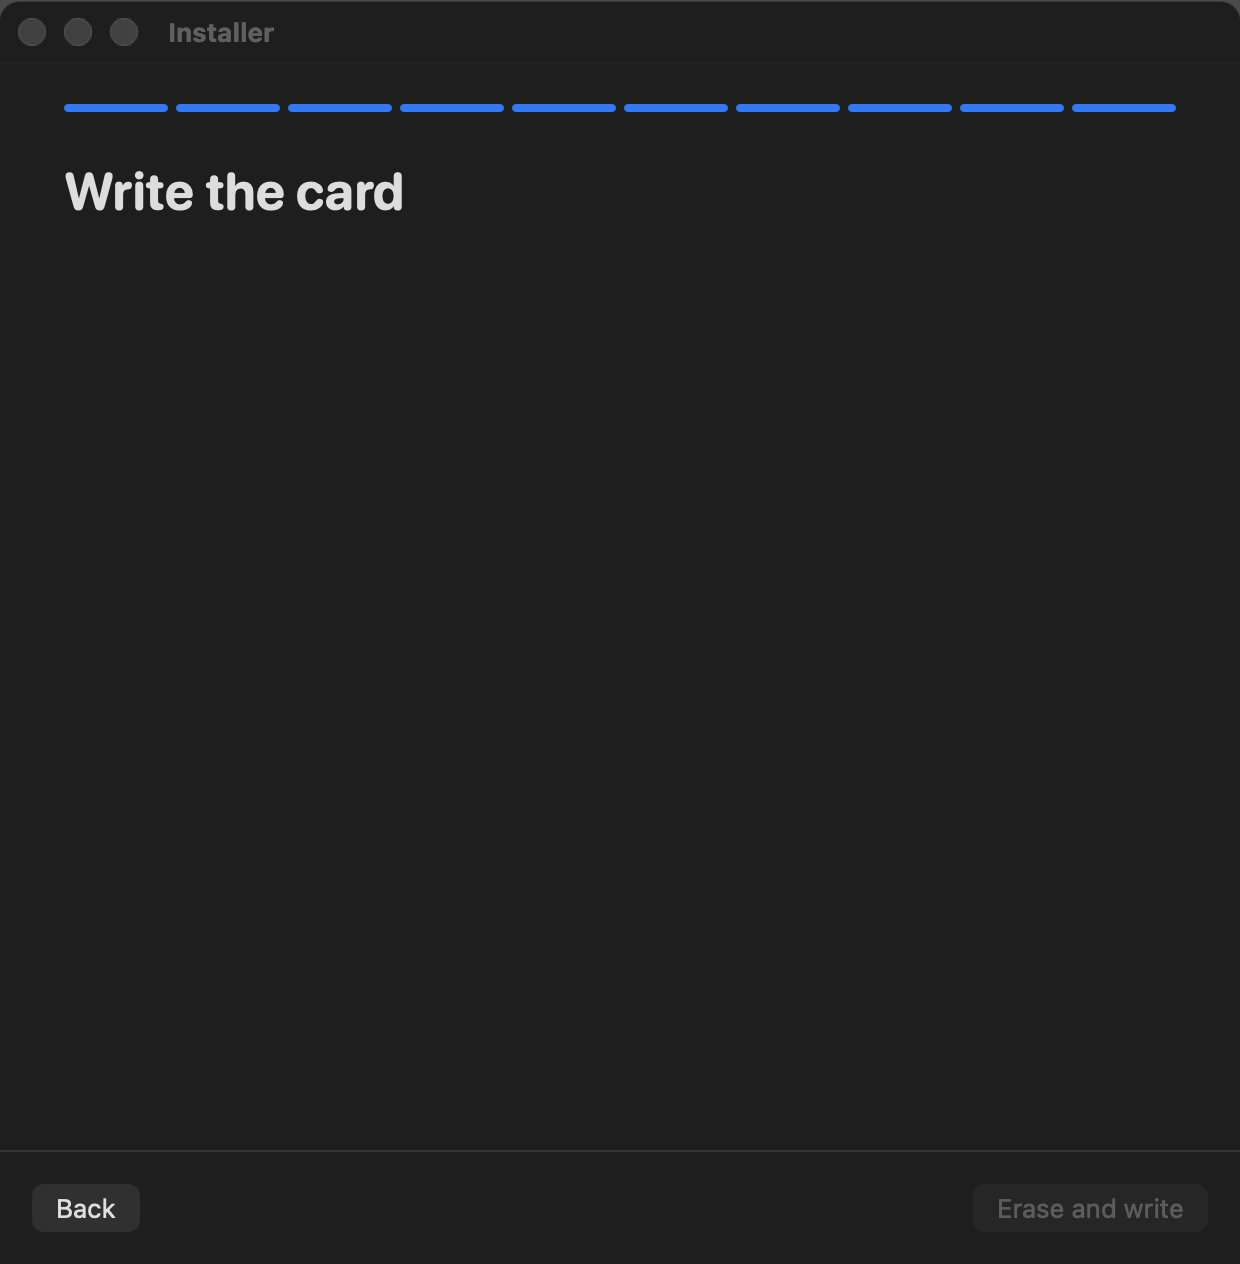
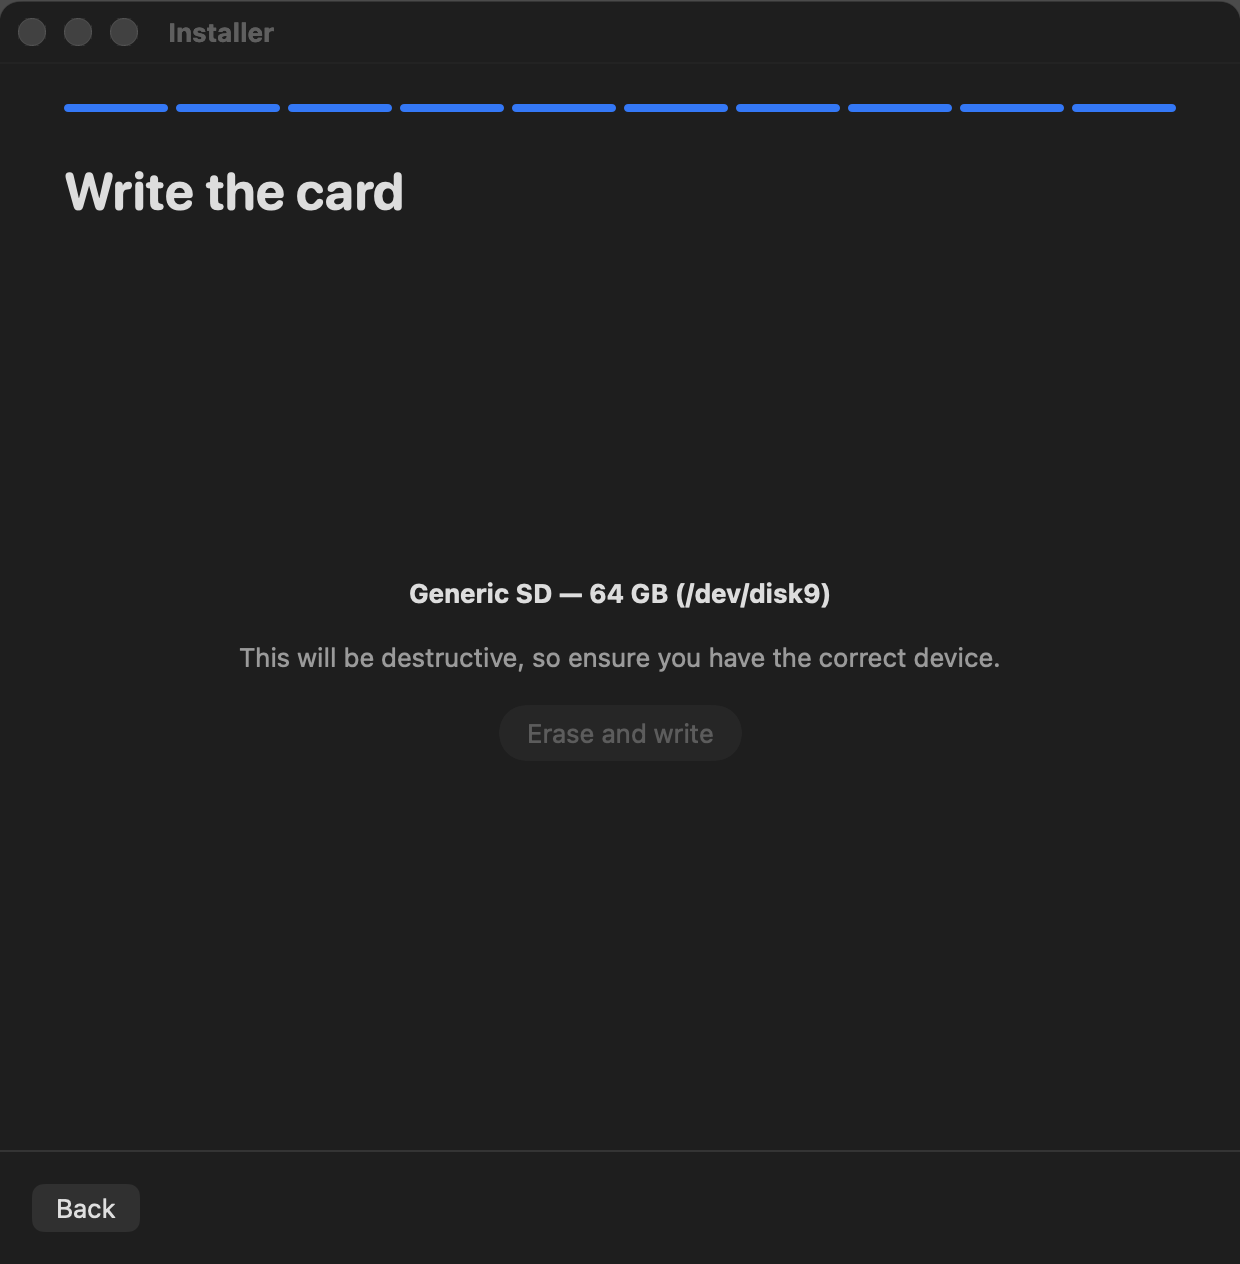
installer demo: the new write step, a fake disk for screenshots

diff --git a/installer/Sources/BiscottiInstaller/Disks.swift b/installer/Sources/BiscottiInstaller/Disks.swift
@@ -51,8 +51,12 @@ struct InstallerError: LocalizedError {
     init(_ message: String) { errorDescription = message }
 }
 
+/// `-fakeDisk "Generic SD"` stands in for an inserted 64 GB card in screenshots; it's never written to.
+let fakeDisk = UserDefaults.standard.string(forKey: "fakeDisk").map { Disk(id: "disk9", name: $0, size: 64_000_000_000) }
+
 /// Removable, physical disks only (SD cards, including the built-in reader's, and USB drives), never the Mac's own.
 func removableDisks() -> [Disk] {
+    if let fakeDisk { return [fakeDisk] }
     guard let list = try? diskutil("list", "physical"),
           let ids = list["WholeDisks"] as? [String] else { return [] }
     return ids.compactMap { id in

diff --git a/installer/Sources/BiscottiInstaller/App.swift b/installer/Sources/BiscottiInstaller/App.swift
@@ -90,7 +90,7 @@ struct InstallerView: View {
     @State private var download: Double?
     @State private var downloadError: String?
     @State private var disks = removableDisks()
-    @State private var disk: Disk?
+    @State private var disk = fakeDisk
     @State private var myPhones: [String] = []
     @State private var importing = false
     @State private var importTarget = Import.image
@@ -688,7 +688,7 @@ struct InstallerView: View {
     }
 
     private func write() {
-        guard let image, let disk else { return }
+        guard let image, let disk, fakeDisk == nil else { return }
         let settings = settings
         progress = 0
         busy = true
